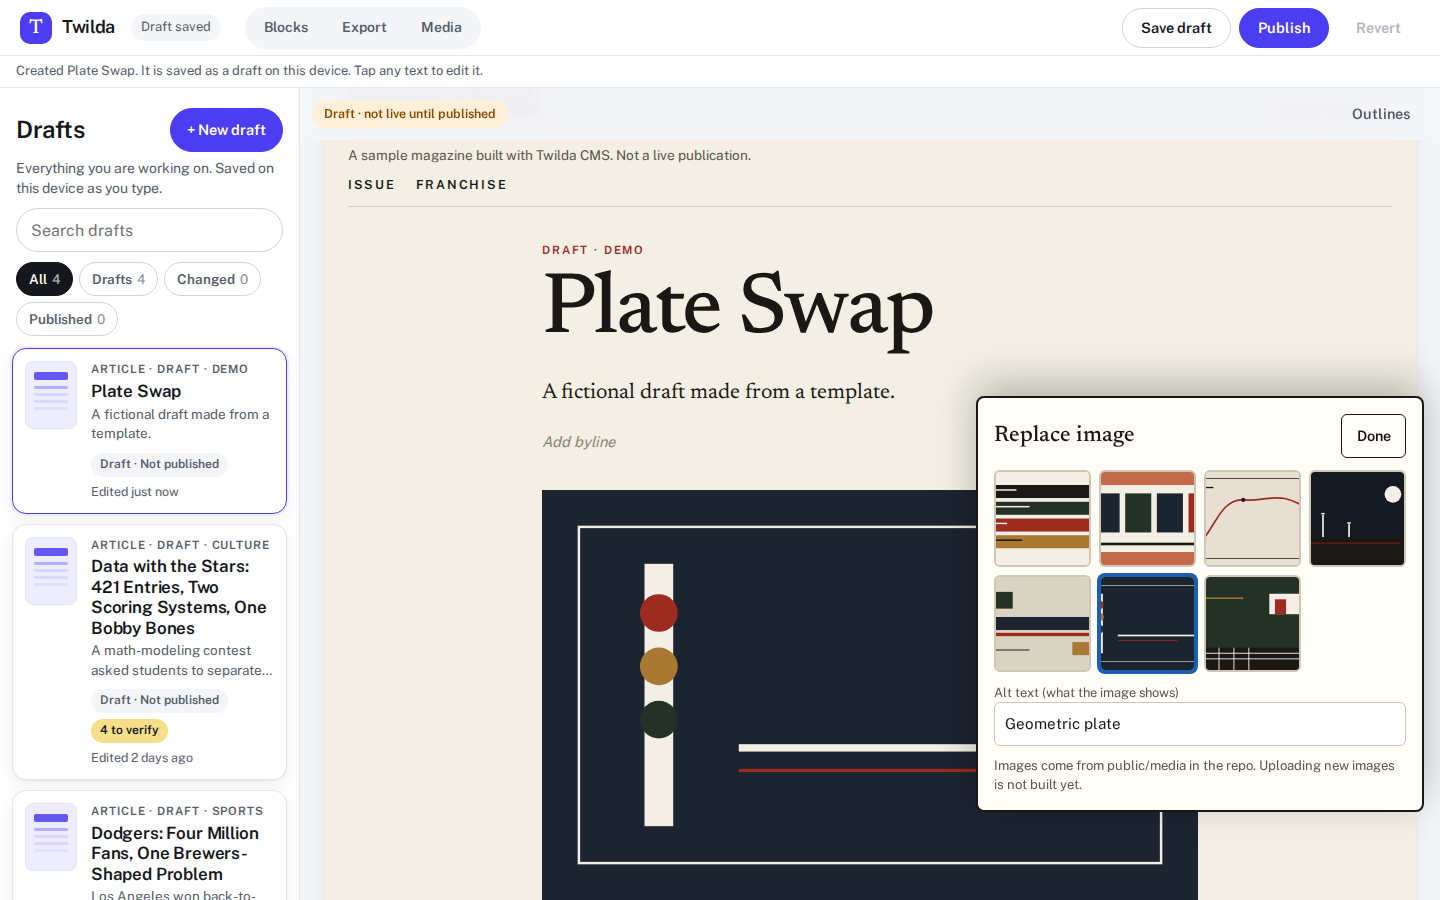
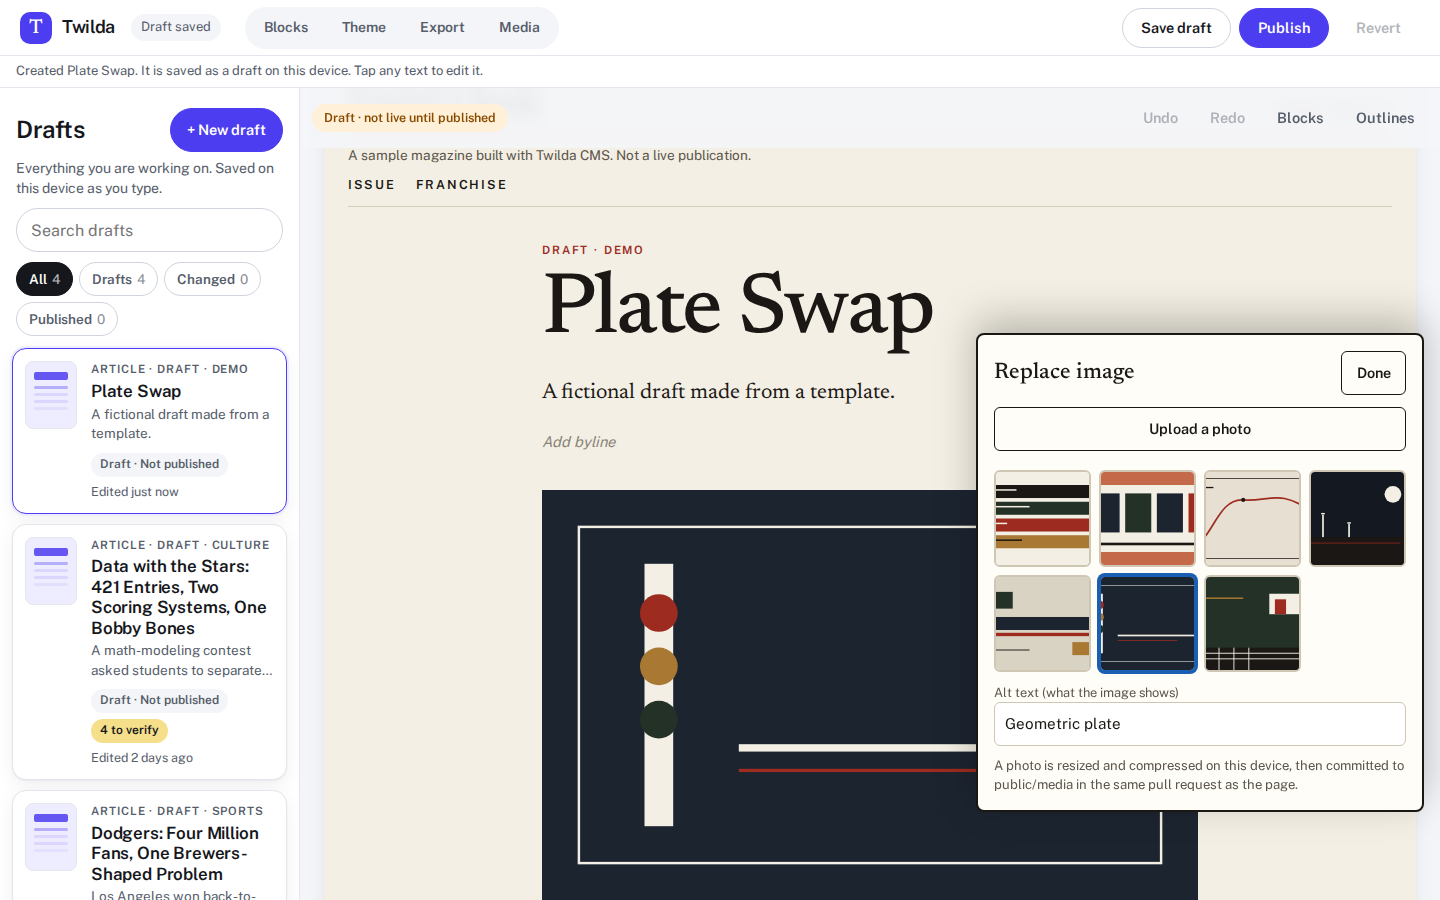
Update desk e2e for folder layout and re-encoded uploads

diff --git a/packages/editor/e2e/drafting.spec.ts b/packages/editor/e2e/drafting.spec.ts
@@ -131,7 +131,7 @@ test.describe("drafting", () => {
     await expect(text).toContainText('import { Callout, Chart, Download, KeyFindings } from');
     await expect(text).toContainText("\\{braces\\}");
     await expect(text).toContainText("## Sources");
-    await expect(text).toContainText("./images/ballpark-test-piece-1-plate-photo.png");
+    await expect(text).toContainText("./images/ballpark-test-piece-1-plate-photo.jpg");
     await expect(page.getByTestId("export-issues")).toContainText("VERIFY");
 
     const [mdxDownload] = await Promise.all([page.waitForEvent("download"), page.getByTestId("download-text").click()]);
@@ -150,7 +150,7 @@ test.describe("drafting", () => {
     expect(zip.suggestedFilename()).toBe("ballpark-test-piece-twilda.zip");
     const zipBytes = readFileSync(await zip.path());
     expect(zipBytes.subarray(0, 4).toString("hex")).toBe("504b0304");
-    expect(zipBytes.toString("latin1")).toContain("images/ballpark-test-piece-1-plate-photo.png");
+    expect(zipBytes.toString("latin1")).toContain("images/ballpark-test-piece-1-plate-photo.jpg");
 
     // JSON backup, then delete, then import the backup back.
     const [json] = await Promise.all([page.waitForEvent("download"), page.getByTestId("download-json").click()]);

diff --git a/packages/editor/e2e/phase1.spec.ts b/packages/editor/e2e/phase1.spec.ts
@@ -201,10 +201,11 @@ test.describe("phase 1 desk", () => {
     await page.getByTestId("confirm-publish").click();
     await expect(page.getByTestId("notice")).toContainText("https://github.com/Artometrics/twilda/pull/9");
 
-    expect(puts.map((entry) => entry.path)).toEqual(["content/articles/token-publish.json"]);
+    expect(puts.map((entry) => entry.path)).toEqual(["content/token-publish/draft.json", "content/token-publish/published.json"]);
     expect(puts[0]?.body.branch).toBe("twilda/draft/token-publish");
     expect(puts[0]?.auth).toBe("Bearer github_pat_example");
-    const written = JSON.parse(Buffer.from(puts[0]!.body.content, "base64").toString("utf8"));
+    const written = JSON.parse(Buffer.from(puts[1]!.body.content, "base64").toString("utf8"));
+    expect(JSON.parse(Buffer.from(puts[0]!.body.content, "base64").toString("utf8")).status).toBe("draft");
     expect(written.status).toBe("published");
     expect(written.title).toBe("Token Publish");
     expect(pull).toMatchObject({ head: "twilda/draft/token-publish", base: "main" });

diff --git a/packages/editor/e2e/desk.spec.ts b/packages/editor/e2e/desk.spec.ts
@@ -44,8 +44,8 @@ test("field desk sample: edit, reorder, section, upload, preview, and publish", 
     mimeType: "image/png",
     buffer: PNG,
   });
-  await expect(page.getByTestId("media-library")).toContainText("yard-night.png");
-  await expect(page.getByTestId("notice")).toContainText("Stored yard-night.png");
+  await expect(page.getByTestId("media-library")).toContainText("yard-night.jpg");
+  await expect(page.getByTestId("notice")).toContainText("Stored yard-night.jpg");
 
   await page.getByTestId("tab-edit").click();
   await page.getByTestId("save-draft").click();
